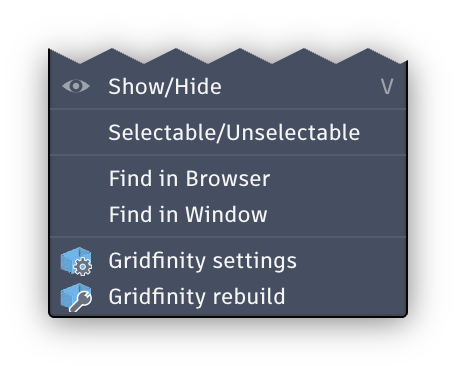
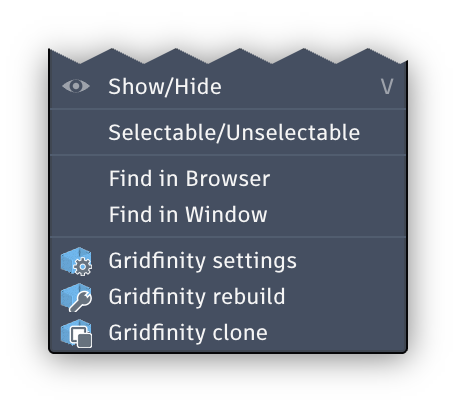
Clone a bin or baseplate from its context menu
A Gridfinity clone item below Gridfinity settings and rebuild opens the
generator dialog with the body's settings to build a new one, as the
Clone button of the settings window does. Its icon is a bin with two
sheets, a copy. The README and its context menu shots show it.

Changed region(s): [[0.0921, 0.4208, 0.8904, 0.9016], [0.0921, 0.1202, 0.8904, 0.2705], [0.2149, 0.3005, 0.7982, 0.3907]]

diff --git a/commands/commandShowSettings/entry.py b/commands/commandShowSettings/entry.py
@@ -26,6 +26,12 @@ REBUILD_CMD_NAME = 'Gridfinity rebuild'
 # a bin with a wrench
 REBUILD_ICON_FOLDER = os.path.join(os.path.dirname(os.path.abspath(__file__)), 'resources', 'rebuild', '')
 REBUILD_CMD_DESCRIPTION = 'Open the generator dialog with the settings of this bin or baseplate to build it again in its place, keeping the features after it'
+# the context menu item opening the generator's dialog with these settings for a new body, as the Clone button of the window does
+CLONE_CMD_ID = f'{config.COMPANY_NAME}_{config.ADDIN_NAME}_cmdClone'
+CLONE_CMD_NAME = 'Gridfinity clone'
+# a bin with two sheets, a copy
+CLONE_ICON_FOLDER = os.path.join(os.path.dirname(os.path.abspath(__file__)), 'resources', 'clone', '')
+CLONE_CMD_DESCRIPTION = 'Open the generator dialog with the settings of this bin or baseplate to build a new one'
 
 SETTINGS_TEXT_INPUT = 'settings_text'
 SETTINGS_BROWSER = 'settings'
@@ -75,6 +81,10 @@ def canRebuild(tag: tuple[adsk.fusion.BRepBody, str, dict] | None) -> bool:
     """Bodies generated before the generator kept the config can't be rebuilt"""
     return tag is not None and tag[1] in REBUILD_COMMANDS and isinstance(tag[2].get('config'), dict)
 
+def canClone(tag: tuple[adsk.fusion.BRepBody, str, dict] | None) -> bool:
+    """Bodies generated before the generator kept the config can't be cloned"""
+    return tag is not None and tag[1] in CLONE_COMMANDS and isinstance(tag[2].get('config'), dict)
+
 def startRebuild(tag: tuple[adsk.fusion.BRepBody, str, dict]):
     (body, tagName, value) = tag
     REBUILD_COMMANDS[tagName].startRebuild(body, value)
@@ -94,6 +104,10 @@ def start():
     if not rebuild_def:
         rebuild_def = ui.commandDefinitions.addButtonDefinition(REBUILD_CMD_ID, REBUILD_CMD_NAME, REBUILD_CMD_DESCRIPTION, REBUILD_ICON_FOLDER)
     futil.add_handler(rebuild_def.commandCreated, rebuild_command_created)
+    clone_def = ui.commandDefinitions.itemById(CLONE_CMD_ID)
+    if not clone_def:
+        clone_def = ui.commandDefinitions.addButtonDefinition(CLONE_CMD_ID, CLONE_CMD_NAME, CLONE_CMD_DESCRIPTION, CLONE_ICON_FOLDER)
+    futil.add_handler(clone_def.commandCreated, clone_command_created)
     markingMenuHandler = futil.add_handler(ui.markingMenuDisplaying, marking_menu_displaying, local_handlers=local_handlers)
 
 def stop():
@@ -101,7 +115,7 @@ def stop():
     if markingMenuHandler is not None:
         ui.markingMenuDisplaying.remove(markingMenuHandler)
         markingMenuHandler = None
-    for cmdId in [CMD_ID, REBUILD_CMD_ID]:
+    for cmdId in [CMD_ID, REBUILD_CMD_ID, CLONE_CMD_ID]:
         command_definition = ui.commandDefinitions.itemById(cmdId)
         if command_definition:
             command_definition.deleteMe()
@@ -117,6 +131,8 @@ def marking_menu_displaying(args: adsk.core.MarkingMenuEventArgs):
         controls.addCommand(ui.commandDefinitions.itemById(CMD_ID))
         if canRebuild(menuTag):
             controls.addCommand(ui.commandDefinitions.itemById(REBUILD_CMD_ID))
+        if canClone(menuTag):
+            controls.addCommand(ui.commandDefinitions.itemById(CLONE_CMD_ID))
     except Exception as err:
         futil.log(f'{CMD_NAME} context menu failed, {err}')
 
@@ -146,6 +162,18 @@ def rebuild_command_created(args: adsk.core.CommandCreatedEventArgs):
         startRebuild(tag)
     except Exception as err:
         futil.handle_error(f'{REBUILD_CMD_NAME} failed, {err}', show_message_box=True)
+
+def clone_command_created(args: adsk.core.CommandCreatedEventArgs):
+    """Opens the generator's dialog in place of this command, which has nothing to show"""
+    tag = selectedTag() or menuTag
+    try:
+        if not canClone(tag):
+            ui.messageBox('Select a generated bin or baseplate to clone.', CLONE_CMD_NAME)
+            return
+        (_, tagName, value) = tag
+        CLONE_COMMANDS[tagName].startWithConfig(value['config'])
+    except Exception as err:
+        futil.handle_error(f'{CLONE_CMD_NAME} failed, {err}', show_message_box=True)
 
 def command_incoming_from_html(args: adsk.core.HTMLEventArgs, body: adsk.fusion.BRepBody, tagName: str, value: dict):
     browserPages.handleMessage(args, pageHandlers(body, tagName, value))

diff --git a/README.md b/README.md
@@ -62,7 +62,7 @@ Skeletonized baseplates can have holes between them for a screw or a glued in pi
   - magnet sockets, sized for a snug fit of the magnets, optionally with tabs holding them in
   - screw holes of adjustable diameter, with a groove for printability when combined with magnet sockets
   - joint origins at the bottom of every foot, to joint the bin into baseplate sockets
-- **Settings** can be saved as the dialog defaults, saved to or loaded from a JSON file, copied to the clipboard or cloned into a new bin
+- **Settings** can be saved as the dialog defaults, saved to or loaded from a JSON file, copied to the clipboard or cloned into a new bin, also from its right-click menu
 - **Rebuild** a generated bin or baseplate with changed settings, from its right-click menu or its settings window, it's built again at its place in the timeline and the features after it keep working on the new body. Features picked on a face or an edge of the old body are listed to pick again. For a bin, changing only what its parameters hold, like the height or label text, sets them instead, without building it again
 
 <picture><source media="(prefers-color-scheme: dark)" srcset="documentation/assets/gif/bin-features-dark.gif"><img src="documentation/assets/gif/bin-features-light.gif" alt="Changing the size, type and wall thickness of a bin, with the bin at each change"></picture>
@@ -132,9 +132,9 @@ Bin for random round things
 ![](documentation/assets/gif/specialized-bin-creation.gif)
 
 ### Settings and rebuild
-Right-click a generated bin or baseplate for its settings or to rebuild it in place with changed settings. The settings window shows what it was built with, saves them to a file, copies or clones them
+Right-click a generated bin or baseplate for its settings, to rebuild it in place with changed settings or to clone it into a new one. The settings window shows what it was built with, saves them to a file, copies or clones them
 
-<picture><source media="(prefers-color-scheme: dark)" srcset="documentation/assets/ui/context-menu-gridfinity-scene-dark.png"><img src="documentation/assets/ui/context-menu-gridfinity-scene-light.png" alt="Fusion's right-click menu opened on a bin, the pointer on Gridfinity rebuild below Gridfinity settings" width="508"></picture>
+<picture><source media="(prefers-color-scheme: dark)" srcset="documentation/assets/ui/context-menu-gridfinity-scene-dark.png"><img src="documentation/assets/ui/context-menu-gridfinity-scene-light.png" alt="Fusion's right-click menu opened on a bin, the pointer on Gridfinity clone below Gridfinity settings and Gridfinity rebuild" width="508"></picture>
 
 ## Installation
 
